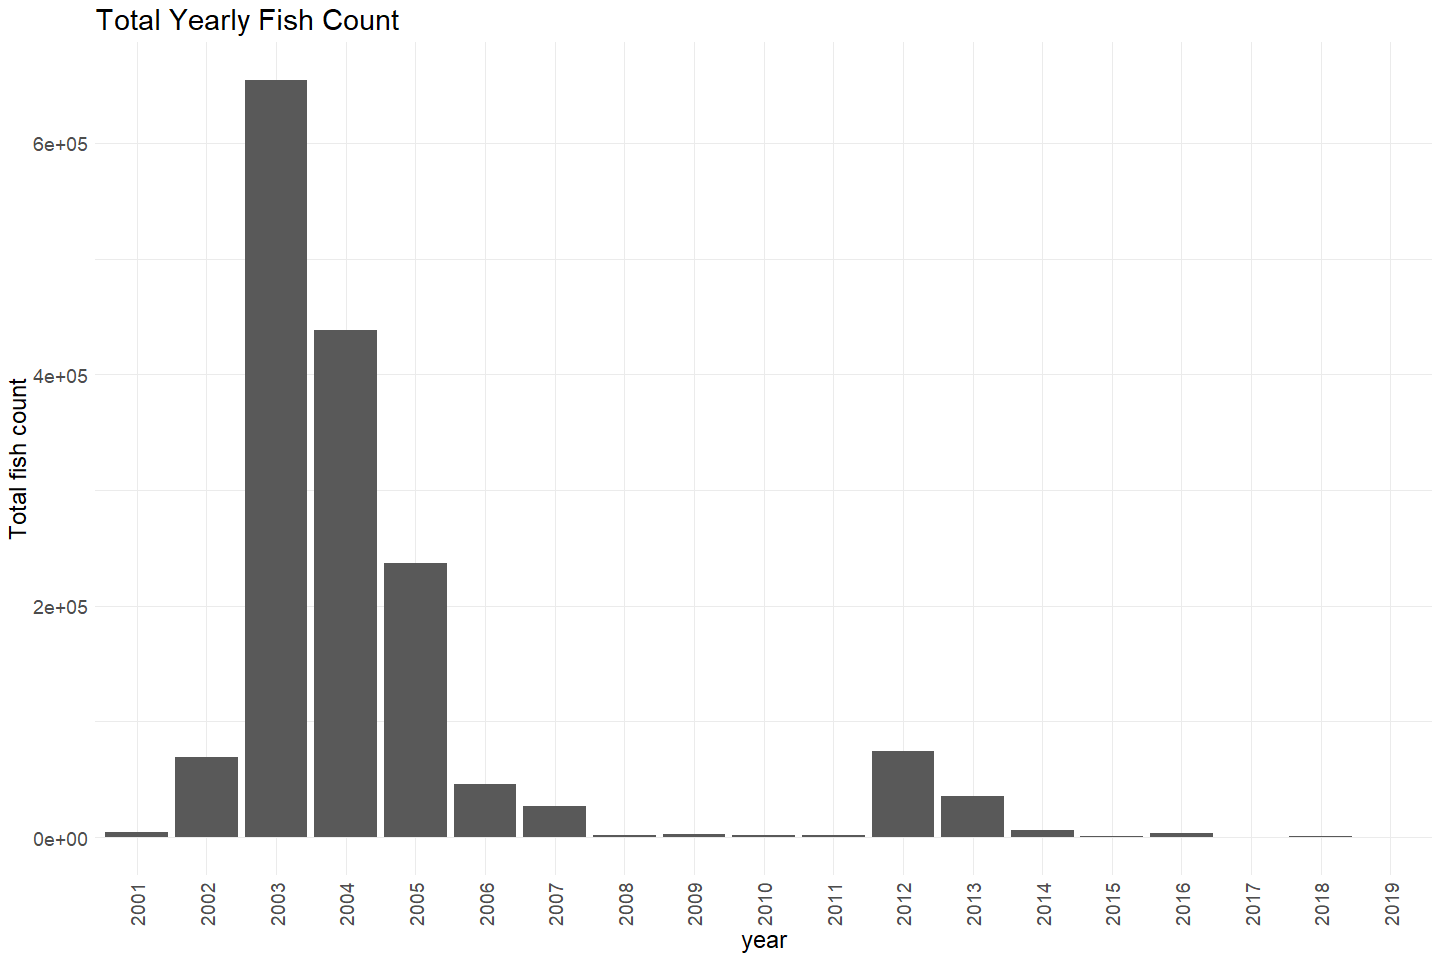
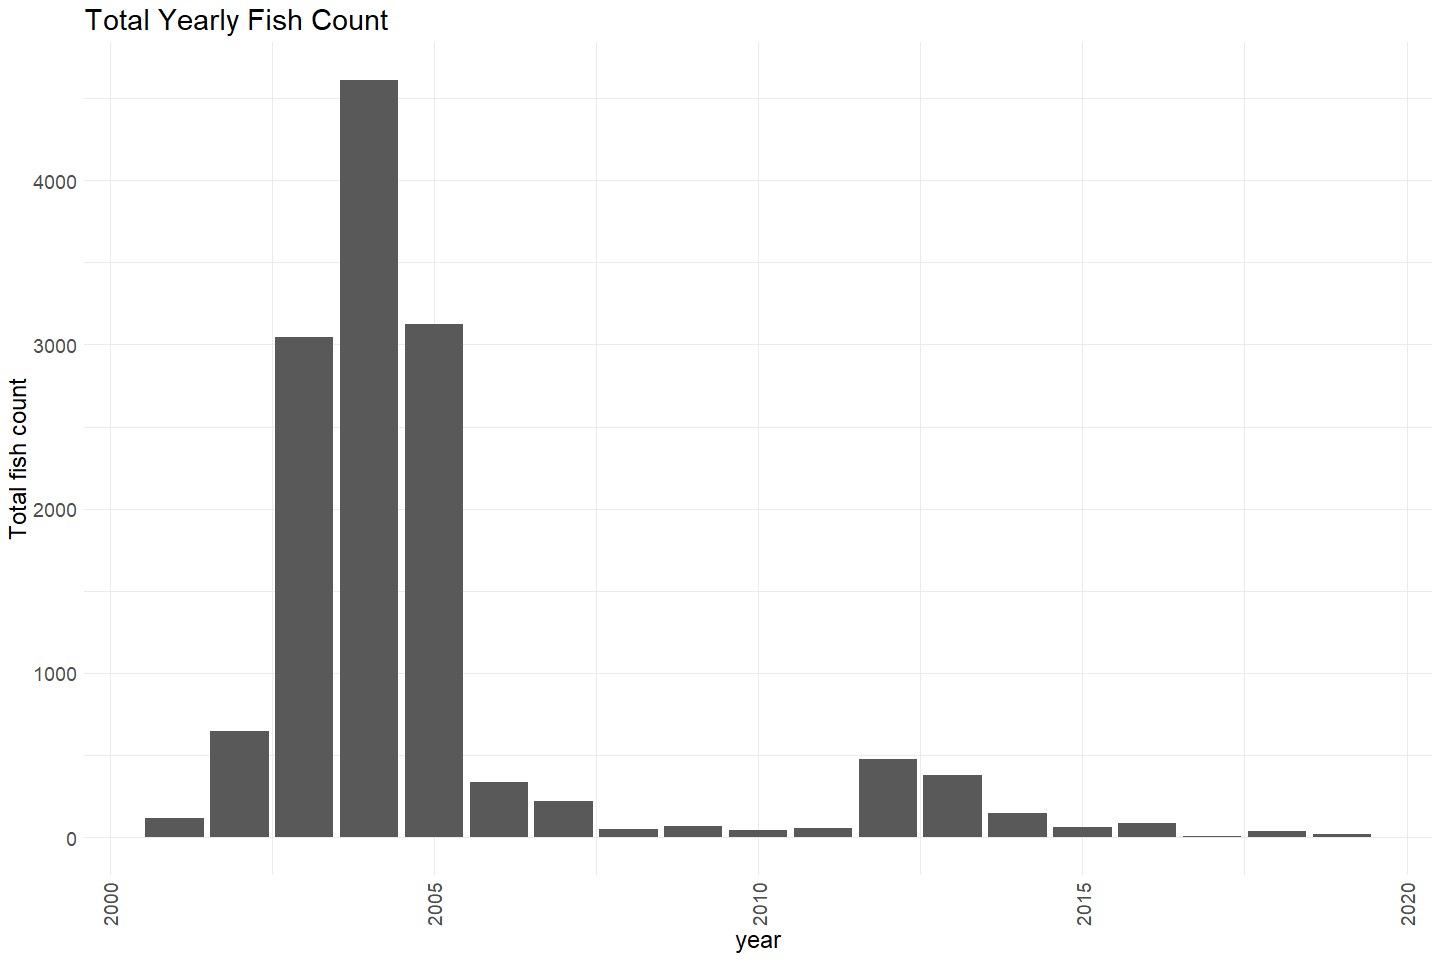
Updates plot for battle holding survey

diff --git a/scripts/adult-holding-redd-and-carcass-surveys/battle-creek/battle_holding_survey_qc.md b/scripts/adult-holding-redd-and-carcass-surveys/battle-creek/battle_holding_survey_qc.md
@@ -208,8 +208,8 @@ cleaner_holding_data %>%
 ``` r
 cleaner_holding_data  %>%
   mutate(year = as.factor(year(date))) %>%
-  group_by(year(date)) %>%
-  mutate(total_catch = sum(count)) %>%
+  group_by(year = year(date)) %>%
+  summarise(total_catch = sum(count, na.rm = T)) %>%
   ungroup() %>%
   ggplot(aes(x = year, y = total_catch)) + 
   geom_col() + 
